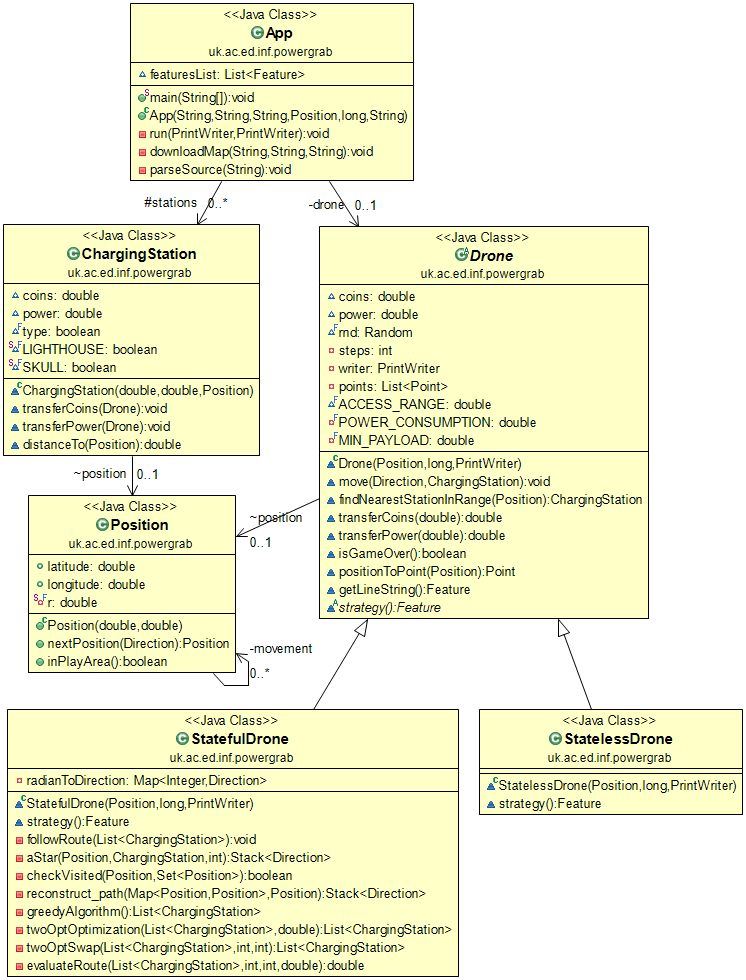
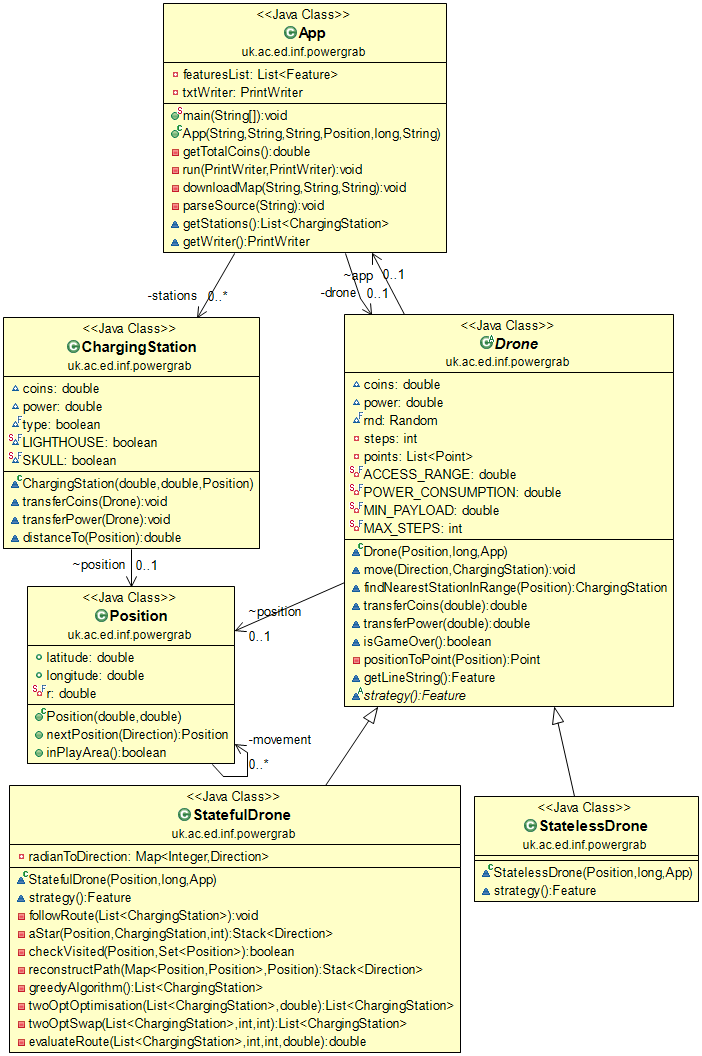
Changed the relationship between drone and app

diff --git a/powergrab/src/main/java/uk/ac/ed/inf/powergrab/Drone.java b/powergrab/src/main/java/uk/ac/ed/inf/powergrab/Drone.java
@@ -1,6 +1,5 @@
 package uk.ac.ed.inf.powergrab;
 
-import java.io.PrintWriter;
 import java.util.ArrayList;
 import java.util.List;
 import java.util.Random;
@@ -38,8 +37,8 @@ public abstract class Drone {
 	double power;
 	final Random rnd;
 	private int steps;
-	private PrintWriter writer;
 	private List<Point> points = new ArrayList<Point>();
+	App app;
 	
 	private static final double ACCESS_RANGE = 0.00025;
 	private static final double POWER_CONSUMPTION = 1.25;
@@ -52,13 +51,13 @@ public abstract class Drone {
 	 * @param seed	   The random seed for random moves.
 	 * @param writer   The writer to record the status of the drone in text file.
 	 */
-	Drone(Position position, long seed, PrintWriter writer) {
+	Drone(Position position, long seed, App app) {
 		this.position = position;
 		this.coins = 0;
 		this.power = 250;
 		this.rnd = new Random(seed);
 		this.steps = 0;
-		this.writer = writer;
+		this.app = app;
 		points.add(positionToPoint(position));
 	}
 	
@@ -83,7 +82,7 @@ public abstract class Drone {
 			station.transferPower(this);
 		}
 		points.add(positionToPoint(position));
-		writer.println(prev.latitude +","+ prev.longitude +","+ direction +","+ position.latitude +","+ position.longitude +","+ coins +","+ power);
+		app.getWriter().println(prev.latitude +","+ prev.longitude +","+ direction +","+ position.latitude +","+ position.longitude +","+ coins +","+ power);
 //		System.out.println(steps+" - coins: "+coins+", power: "+power);
 	}
 	
@@ -94,7 +93,7 @@ public abstract class Drone {
 	 */
 	ChargingStation findNearestStationInRange(Position p) {
 		double distance = 0;
-		List<ChargingStation> stations = App.getStations();
+		List<ChargingStation> stations = app.getStations();
 		ChargingStation nearestStation = null;
 		double minDistance = Double.MAX_VALUE;
 		

diff --git a/powergrab/src/main/java/uk/ac/ed/inf/powergrab/StatefulDrone.java b/powergrab/src/main/java/uk/ac/ed/inf/powergrab/StatefulDrone.java
@@ -1,6 +1,5 @@
 package uk.ac.ed.inf.powergrab;
 
-import java.io.PrintWriter;
 import java.util.ArrayList;
 import java.util.HashMap;
 import java.util.HashSet;
@@ -28,8 +27,8 @@ public class StatefulDrone extends Drone{
 	 * @param seed
 	 * @param writer
 	 */
-	StatefulDrone(Position p, long seed, PrintWriter writer) {
-		super(p, seed, writer);
+	StatefulDrone(Position p, long seed, App app) {
+		super(p, seed, app);
 		
 		// Create a HashMap for A* to retrieve the direction between two points.
 		Direction[] directions = Direction.values();
@@ -123,7 +122,7 @@ public class StatefulDrone extends Drone{
 			Entry<Double, Position> minPair = fScores.pollFirstEntry();
 			current = minPair.getValue();
 			
-			if (iterations > threshold && attempt < 3) { 	// A* time out
+			if (iterations > threshold && attempt < 3) { 							// A* time out
 				Stack<Direction> after = aStar(current, station, attempt+1);		// try again from current position recursively
 				Stack<Direction> before = reconstructPath(cameFrom, current);   	// construct a path from start position to current position
 				after.addAll(before);												// add them together and return.
@@ -224,7 +223,7 @@ public class StatefulDrone extends Drone{
 	 */
 	private List<ChargingStation> greedyAlgorithm() {
 		final List<ChargingStation> lightHouses = new ArrayList<ChargingStation>();
-		App.getStations().forEach(s -> {if (s.type == ChargingStation.LIGHTHOUSE) lightHouses.add(s);});
+		app.getStations().forEach(s -> {if (s.type == ChargingStation.LIGHTHOUSE) lightHouses.add(s);});
 		List<ChargingStation> route = new ArrayList<ChargingStation>();
 		double routeLength = 0;
 		

diff --git a/powergrab/src/main/java/uk/ac/ed/inf/powergrab/App.java b/powergrab/src/main/java/uk/ac/ed/inf/powergrab/App.java
@@ -23,9 +23,10 @@ import com.mapbox.geojson.*;
  * @author s1740055
  */
 public class App {
-	private final static List<ChargingStation> stations = new ArrayList<ChargingStation>();
+	private final List<ChargingStation> stations = new ArrayList<ChargingStation>();
 	private Drone drone;
-	private List<Feature> featuresList = null;
+	private List<Feature> featuresList;
+	private PrintWriter txtWriter;
 	
     public static void main(String[] args) throws Exception {
     	// Parse arguments.
@@ -62,11 +63,11 @@ public class App {
     	String txtFileName = String.format("%s-%s-%s-%s.txt", droneType, day, month, year); 
     	String geojsonFileName = String.format("%s-%s-%s-%s.geojson", droneType, day, month, year);
 		try {
-			PrintWriter txtWriter = new PrintWriter(txtFileName, "UTF-8");
+			txtWriter = new PrintWriter(txtFileName, "UTF-8");
 			if (droneType.equals("stateless")) {
-	    		drone = new StatelessDrone(initDronePos, seed, txtWriter);
+	    		drone = new StatelessDrone(initDronePos, seed, this);
 	    	} else if (droneType.equals("stateful")) {
-	    		drone = new StatefulDrone(initDronePos, seed, txtWriter);
+	    		drone = new StatefulDrone(initDronePos, seed, this);
 	    	} else {
 	    		txtWriter.close();
 	    		throw new ClassNotFoundException();
@@ -194,8 +195,12 @@ public class App {
     		stations.add(station);
     	}	
     }
-    
-    static List<ChargingStation> getStations() {
+
+    List<ChargingStation> getStations() {
     	return stations;
+    }
+    
+    PrintWriter getWriter() {
+    	return txtWriter;
     }
 }

diff --git a/powergrab/src/main/java/uk/ac/ed/inf/powergrab/StatelessDrone.java b/powergrab/src/main/java/uk/ac/ed/inf/powergrab/StatelessDrone.java
@@ -1,7 +1,6 @@
 package uk.ac.ed.inf.powergrab;
 
 import java.util.List;
-import java.io.PrintWriter;
 import java.util.ArrayList;
 import com.mapbox.geojson.Feature;
 
@@ -12,8 +11,8 @@ import com.mapbox.geojson.Feature;
  */
 public class StatelessDrone extends Drone{
 
-	StatelessDrone(Position p, long seed, PrintWriter writer) {
-		super(p, seed, writer);
+	StatelessDrone(Position p, long seed, App app) {
+		super(p, seed, app);
 	}
 	
 	/**
